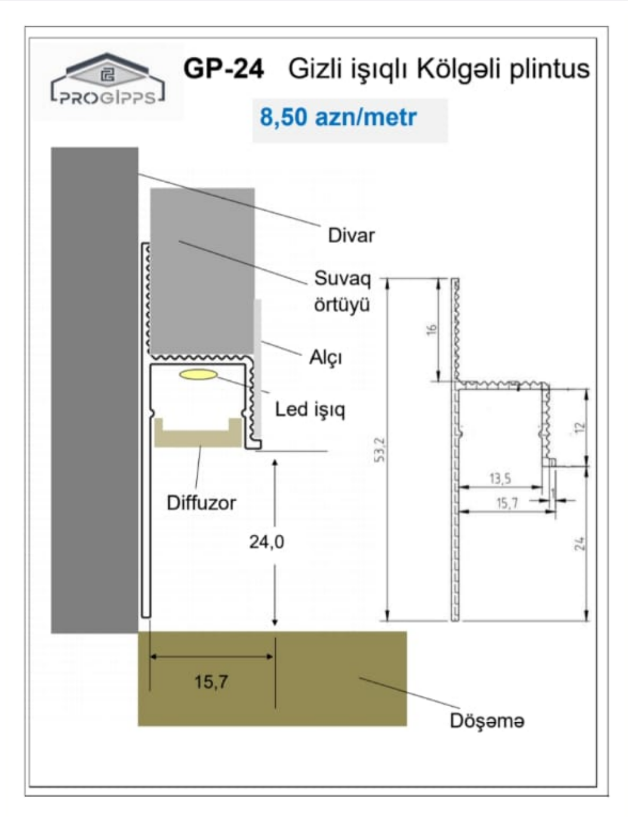
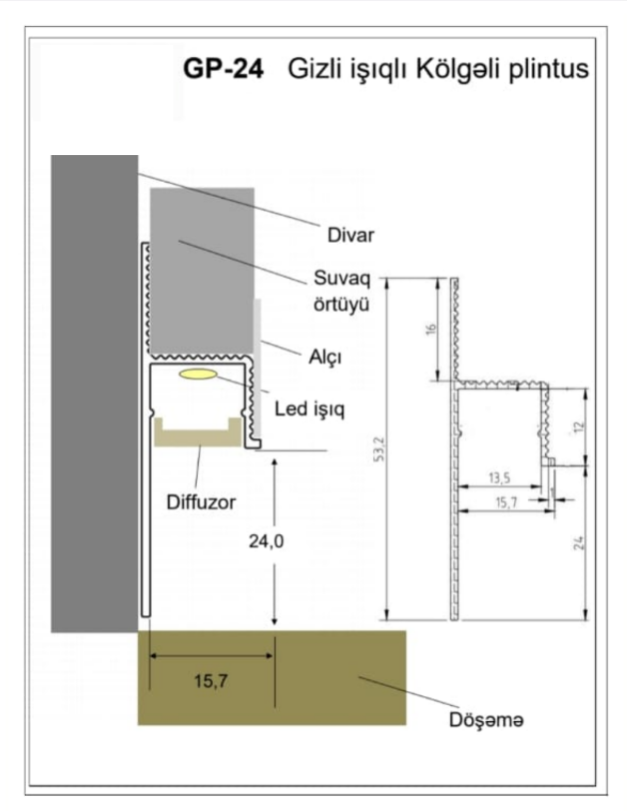
Update products: remove gp28 (missing image) and sync with latest uploads

diff --git a/src/app/page.tsx b/src/app/page.tsx
@@ -188,6 +188,9 @@ export default function Home() {
                     {plan.id.toUpperCase()}
                   </div>
                   
+                  {/* Patch to hide old price baked in image at the top-right */}
+                  <div className="absolute top-0 left-[30%] right-0 h-24 bg-white z-10" />
+                  
                   {/* Overlay on hover */}
                   <div className="absolute inset-0 bg-black/0 group-hover:bg-black/5 transition-colors flex items-center justify-center opacity-0 group-hover:opacity-100">
                     <div className="bg-white/90 p-2 rounded-full shadow-lg transform translate-y-4 group-hover:translate-y-0 transition-transform">
@@ -254,6 +257,9 @@ export default function Home() {
                   fill
                   className="object-contain p-4 md:p-8"
                 />
+                
+                {/* Patch to hide old price in modal at the top-right */}
+                <div className="absolute top-0 left-[30%] right-0 h-40 bg-white z-10 rounded-tr-3xl" />
               </div>
 
               <div className="mt-6 text-center text-white">

diff --git a/src/data/initialData.ts b/src/data/initialData.ts
@@ -302,17 +302,7 @@ export const initialProducts: Product[] = [
         isActive: true,
         isPriceVisible: true
     },
-    {
-        id: 'gp28',
-        type: 'product',
-        name: { AZ: 'GP-28 Gizli işıqlı kölgə profili', RU: 'Теневой профиль GP-28', EN: 'Shadow profile GP-28' },
-        price: 16.50,
-        currency: 'AZN',
-        image: '/GP-28.png',
-        description: { AZ: '16.50 AZN / metr', RU: '16.50 AZN / метр', EN: '16.50 AZN / meter' },
-        isActive: true,
-        isPriceVisible: true
-    },
+
     {
         id: 'gp31',
         type: 'product',
